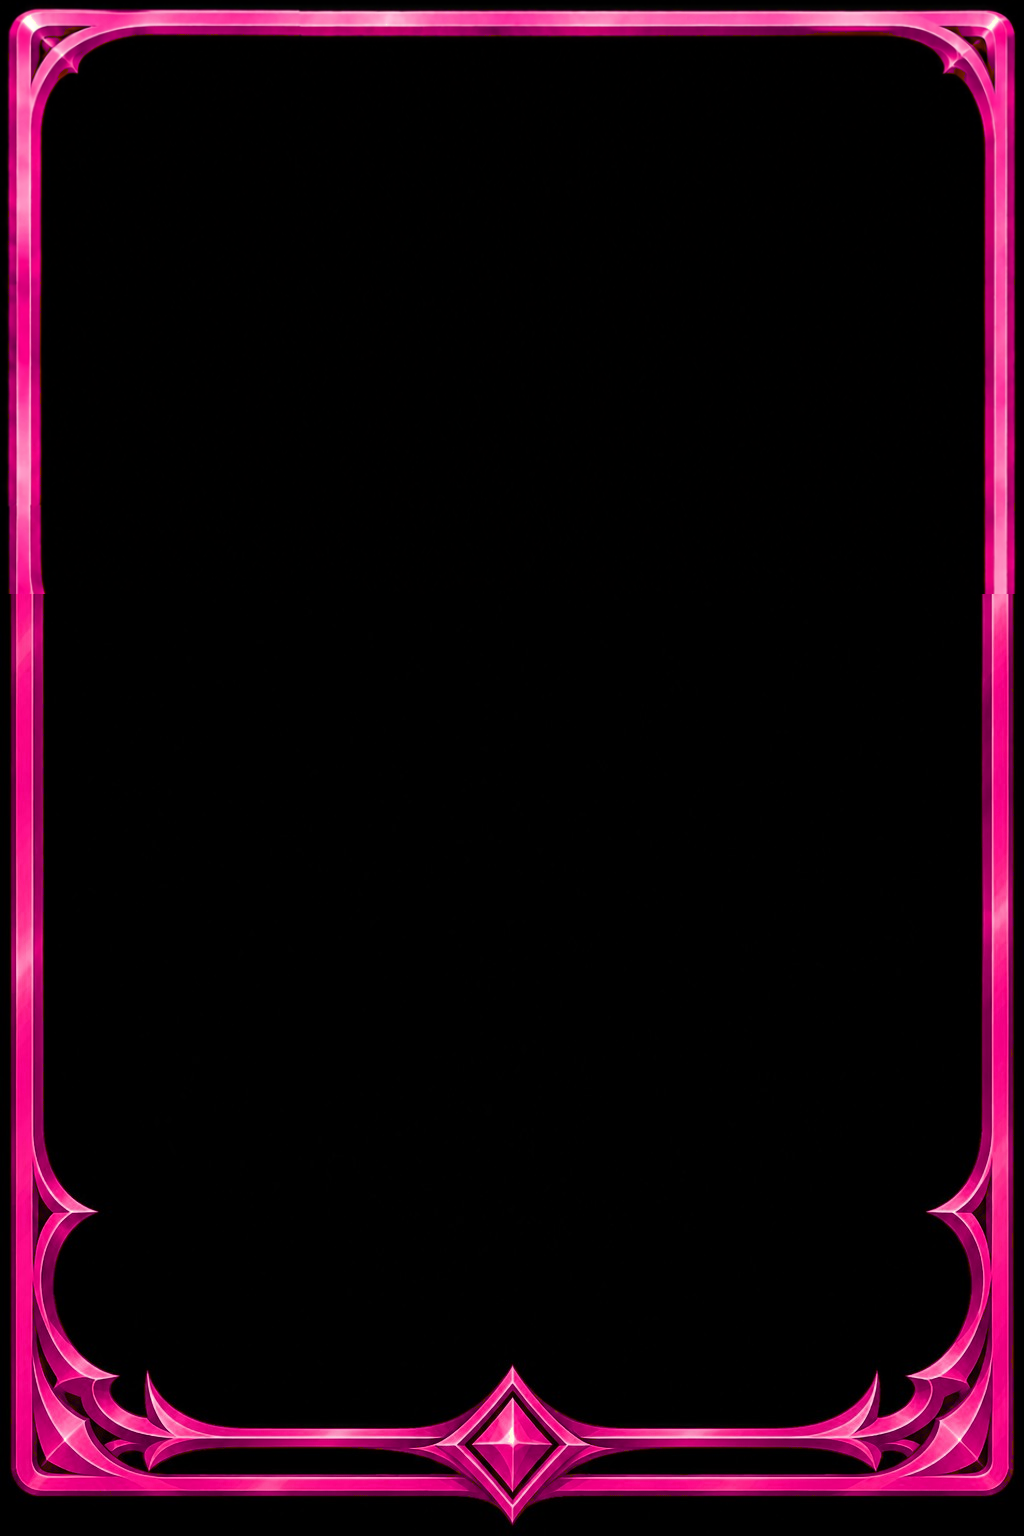
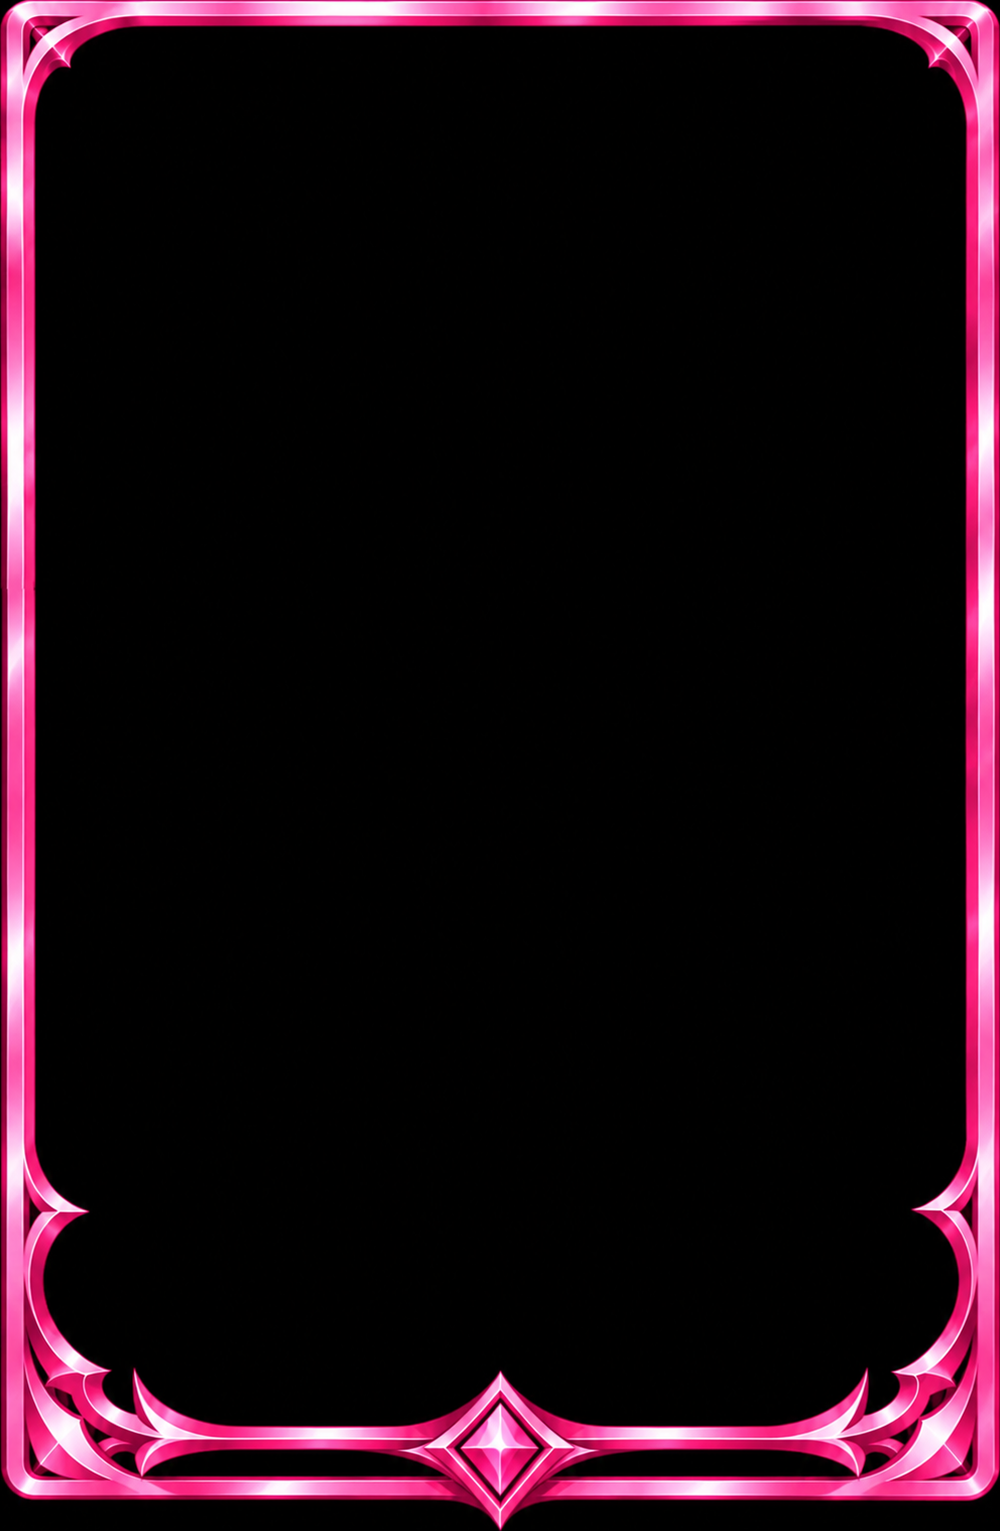
Khung lá phép nhanh: canh khớp hai khung hồng cùng cỡ
Claude-Session: https://claude.ai/code/session_01XgSG6Z9xW8491CKVgy52Z1

Changed region(s): [[0.0, 0.0, 1.0, 1.0]]

diff --git a/src/lib/updates.ts b/src/lib/updates.ts
@@ -872,6 +872,7 @@ export const PENDING_NOTES: string[] = [
   "Lá phép nhanh trên tay có khung hồng mới.",
   "Lá phép/skill phản ứng được: bỏ chớp cam, thay bằng viền và glow màu của phép/skill, lá thở nhẹ.",
   "Khung lá phép nhanh trên tay đổi sang khung hồng mới.",
+  "Khung lá phép nhanh có mana và không mana canh khớp cùng cỡ.",
 ];
 
 function remarkOf(notes: string[]) {

diff --git a/TIEP-TUC.md b/TIEP-TUC.md
@@ -633,3 +633,4 @@ Chủ game trả lời (29/10), CHƯA LÀM gì, chờ "ok" và trả lời câu 
 - VIỀN + THỞ THAY CHỚP CAM 02/11 (chủ game; Sonnet low, ĐÃ LÀM, nhánh `ccr-6ec5ff6c-vl497v`, CHƯA áp `main`): styles.css `.is-alert` dùng `--alert-color` + `alert-breathe` (outline màu, glow, `scale` 1→1,035, 1,5 giây) thay `alert-blink`; màu: lá phép trên tay = `spellKind(id).tone`, lá quái trên sân = `reactTone(cardId)` (play.tsx, màu vành skill: ưu tiên skill loại phép = hồng #ff4fa6), lá quái trên tay Bông mềm/Thế thân/Hoán đổi + xấp bài = hồng. `prime-glow` (quái chủ lực) vẫn cam, chưa đổi. Glow trên tay bị dải tay cắt bớt (như chớp cũ). Thử `/tmp/clashtest/box/al.mjs`.
 
 - KHUNG LÁ PHÉP NHANH ĐỔI KHUNG MỚI 02/11 (chủ game gửi 2 khung vàng mới, Claude đổi hue sang hồng bằng Python: vàng 15–70° → ~330°, giữ viên mana xanh; Sonnet low, ĐÃ LÀM, nhánh `ccr-6ec5ff6c-vl497v`, CHƯA áp `main`): thay `public/ui/spell-frame-fast.png` / `-nogem.png` (bản cũ còn trong git). Ảnh gốc có vệt nối lệch màu ở cạnh trái (~38%) và cạnh trên (bản có mana), chưa vá; khung đậm hơn khung cũ. Muốn sáng hơn/vá vệt thì báo.
+- KHUNG HỒNG CANH KHỚP 02/11 (Sonnet low, ĐÃ LÀM, nhánh `ccr-6ec5ff6c-vl497v`, CHƯA áp `main`): `spell-frame-fast.png` = 446c645a cắt sát (1000×1531), `-nogem.png` = a10d018d cắt sát rồi co về 1000×1531. Chưa chụp thử trên tay bài.
